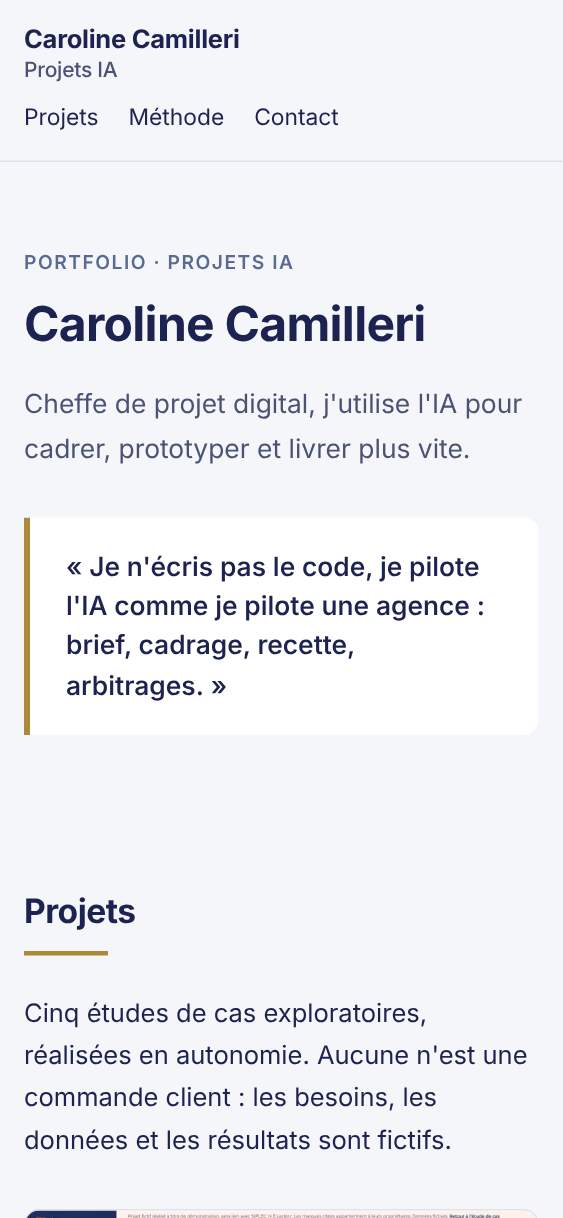
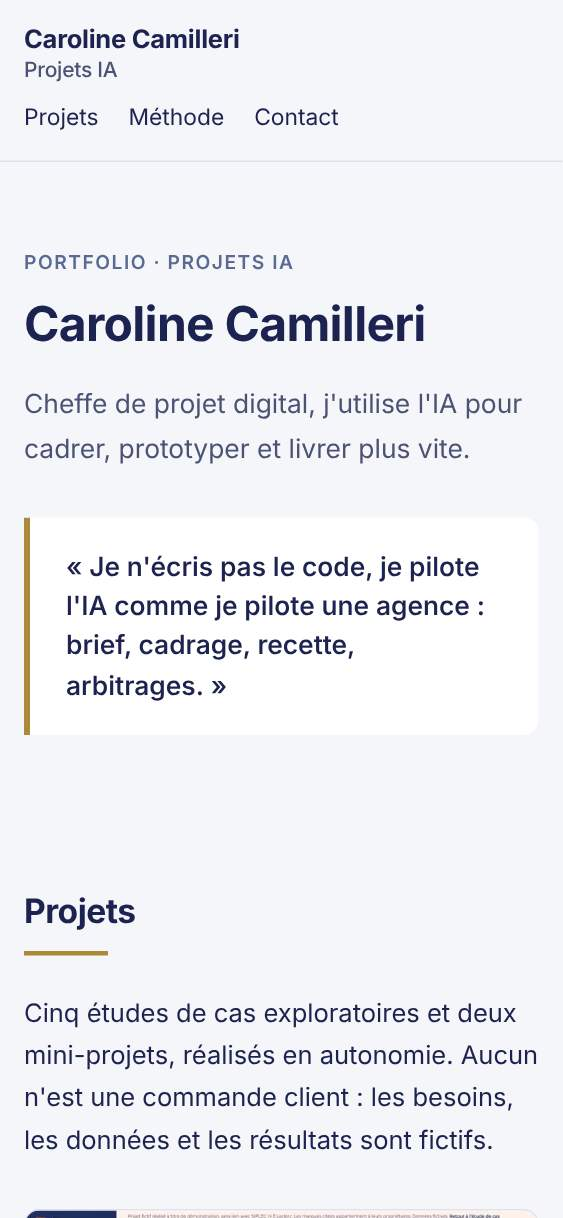
Accueil : fiches des deux mini-projets, rapport de recette à jour
Cartes et fiches #cahier-des-charges et #kit-recette (problème,
contexte, actions, outils, méthode IA, capture, démo). Accroche de la
grille et image de partage passées à sept projets. Rapport du kit
relancé sur l'état actuel des démos. README et questions mis à jour.

Claude-Session: https://claude.ai/code/session_016JEPmqZz9GtzkVWJPjUqnz

Changed region(s): [[0.0302, 0.8112, 0.9663, 0.9672]]

diff --git a/projets/kit-recette/index.html b/projets/kit-recette/index.html
@@ -30,22 +30,25 @@ figure{margin:0}img{max-width:100%;height:auto;border:1px solid var(--l);border-
   <h1>Rapport de recette du 11 novembre 2026</h1>
   <p class="meta">8 pages contrôlées sur ordinateur (1280 px), mobile (375 px) et écran étroit (320 px).</p>
   <ul class="chiffres" aria-label="Résumé">
-    <li><strong>6</strong> problème(s)</li><li><strong>0</strong> bloquant(s)</li><li><strong>6</strong> majeur(s)</li><li><strong>0</strong> mineur(s)</li>
+    <li><strong>7</strong> problème(s)</li><li><strong>0</strong> bloquant(s)</li><li><strong>7</strong> majeur(s)</li><li><strong>0</strong> mineur(s)</li>
   </ul>
   <p><a href="tickets.csv" download>Télécharger les tickets (CSV)</a> · <a href="resultats.json">Résultats bruts (JSON)</a></p>
   <p class="note">Les contrôles automatiques repèrent une partie des problèmes seulement : ils ne remplacent ni un audit RGAA complet, ni un test avec un lecteur d'écran, ni la relecture des contenus.</p>
   <h2>Synthèse</h2>
-  <div class="tw" role="region" aria-label="Synthèse par page" tabindex="0"><table><thead><tr><th scope="col">Page</th><th scope="col">HTTP</th><th scope="col">Bloquant</th><th scope="col">Majeur</th><th scope="col">Mineur</th><th scope="col">Poids</th><th scope="col">Requêtes</th></tr></thead><tbody><tr><th scope="row"><a href="#01-portfolio-ia">Projets IA – Caroline Camilleri, cheffe de projet digital</a></th><td>200</td><td>0</td><td>0</td><td>0</td><td>135 Ko</td><td>11</td></tr><tr><th scope="row"><a href="#02-projets-siplec-flotte">Énergie Pro – Gestion de flotte (prototype)</a></th><td>200</td><td>0</td><td>3</td><td>0</td><td>682 Ko</td><td>8</td></tr><tr><th scope="row"><a href="#03-projets-siplec-offre-energie">Page d'offre énergie B2B et formulaire guidé – Projet de démonstration</a></th><td>200</td><td>0</td><td>0</td><td>0</td><td>84 Ko</td><td>7</td></tr><tr><th scope="row"><a href="#04-projets-amundi">Caroline Camilleri · Proposition marketing B2B épargne salariale et retraite</a></th><td>200</td><td>0</td><td>2</td><td>0</td><td>195 Ko</td><td>10</td></tr><tr><th scope="row"><a href="#05-projets-ugc">Quel film ce soir ?</a></th><td>200</td><td>0</td><td>0</td><td>0</td><td>258 Ko</td><td>10</td></tr><tr><th scope="row"><a href="#06-ugc-illimite">Souscription UGC Illimité</a></th><td>200</td><td>0</td><td>1</td><td>0</td><td>193 Ko</td><td>6</td></tr><tr><th scope="row"><a href="#07-projets-valhor">Les métiers du végétal : carrousel en cinq visuels – Projet de démonstration</a></th><td>200</td><td>0</td><td>0</td><td>0</td><td>103 Ko</td><td>8</td></tr><tr><th scope="row"><a href="#08-projets-cahier-des-charges">Du cahier des charges aux tickets de recette – Projet de démonstration</a></th><td>200</td><td>0</td><td>0</td><td>0</td><td>88 Ko</td><td>4</td></tr></tbody></table></div>
+  <div class="tw" role="region" aria-label="Synthèse par page" tabindex="0"><table><thead><tr><th scope="col">Page</th><th scope="col">HTTP</th><th scope="col">Bloquant</th><th scope="col">Majeur</th><th scope="col">Mineur</th><th scope="col">Poids</th><th scope="col">Requêtes</th></tr></thead><tbody><tr><th scope="row"><a href="#01-portfolio-ia">Projets IA – Caroline Camilleri, cheffe de projet digital</a></th><td>200</td><td>0</td><td>1</td><td>0</td><td>151 Ko</td><td>12</td></tr><tr><th scope="row"><a href="#02-projets-siplec-flotte">Énergie Pro – Gestion de flotte (prototype)</a></th><td>200</td><td>0</td><td>3</td><td>0</td><td>682 Ko</td><td>8</td></tr><tr><th scope="row"><a href="#03-projets-siplec-offre-energie">Page d'offre énergie B2B et formulaire guidé – Projet de démonstration</a></th><td>200</td><td>0</td><td>0</td><td>0</td><td>80 Ko</td><td>7</td></tr><tr><th scope="row"><a href="#04-projets-amundi">Caroline Camilleri · Proposition marketing B2B épargne salariale et retraite</a></th><td>200</td><td>0</td><td>2</td><td>0</td><td>195 Ko</td><td>10</td></tr><tr><th scope="row"><a href="#05-projets-ugc">Quel film ce soir ?</a></th><td>200</td><td>0</td><td>0</td><td>0</td><td>258 Ko</td><td>10</td></tr><tr><th scope="row"><a href="#06-ugc-illimite">Souscription UGC Illimité</a></th><td>200</td><td>0</td><td>1</td><td>0</td><td>193 Ko</td><td>6</td></tr><tr><th scope="row"><a href="#07-projets-valhor">Les métiers du végétal : carrousel en cinq visuels – Projet de démonstration</a></th><td>200</td><td>0</td><td>0</td><td>0</td><td>100 Ko</td><td>8</td></tr><tr><th scope="row"><a href="#08-projets-cahier-des-charges">Du cahier des charges aux tickets de recette – Projet de démonstration</a></th><td>200</td><td>0</td><td>0</td><td>0</td><td>47 Ko</td><td>4</td></tr></tbody></table></div>
   <h2>Détail par page</h2>
   
 <section class="page" id="01-portfolio-ia" aria-labelledby="t-01-portfolio-ia">
   <h3 id="t-01-portfolio-ia">Projets IA – Caroline Camilleri, cheffe de projet digital</h3>
-  <p class="url"><a href="https://ccamilleri-ux.github.io/portfolio-ia/">https://ccamilleri-ux.github.io/portfolio-ia/</a> · HTTP 200 · 135 Ko · 11 requêtes · langue « fr »</p>
+  <p class="url"><a href="https://ccamilleri-ux.github.io/portfolio-ia/">https://ccamilleri-ux.github.io/portfolio-ia/</a> · HTTP 200 · 151 Ko · 12 requêtes · langue « fr »</p>
   <div class="captures">
     <figure><img src="captures/01-portfolio-ia-ordinateur.jpg" width="1280" height="800" loading="lazy" alt="Capture sur ordinateur : Projets IA – Caroline Camilleri, cheffe de projet digital"><figcaption>Ordinateur, 1280 px</figcaption></figure>
     <figure class="mob"><img src="captures/01-portfolio-ia-mobile.jpg" width="562" height="1218" loading="lazy" alt="Capture sur mobile : Projets IA – Caroline Camilleri, cheffe de projet digital"><figcaption>Mobile, 375 px</figcaption></figure>
   </div>
-  <p class="ok">Aucun problème détecté par les contrôles automatiques.</p>
+  
+  <div class="tw" role="region" aria-label="Problèmes de Projets IA – Caroline Camilleri, cheffe de projet digital" tabindex="0"><table><thead><tr><th scope="col">Gravité</th><th scope="col">Type</th><th scope="col">Règle</th><th scope="col">Description</th><th scope="col">Élément</th></tr></thead><tbody>
+  <tr><td><span class="g g-M">Majeur</span></td><td>Lien</td><td>Lien cassé (404)</td><td>Le lien mène à une page introuvable.</td><td><code>https://ccamilleri-ux.github.io/portfolio-ia/projets/kit-recette/index.html</code></td></tr>
+  </tbody></table></div>
 </section>
 <section class="page" id="02-projets-siplec-flotte" aria-labelledby="t-02-projets-siplec-flotte">
   <h3 id="t-02-projets-siplec-flotte">Énergie Pro – Gestion de flotte (prototype)</h3>
@@ -61,7 +64,7 @@ figure{margin:0}img{max-width:100%;height:auto;border:1px solid var(--l);border-
 </section>
 <section class="page" id="03-projets-siplec-offre-energie" aria-labelledby="t-03-projets-siplec-offre-energie">
   <h3 id="t-03-projets-siplec-offre-energie">Page d'offre énergie B2B et formulaire guidé – Projet de démonstration</h3>
-  <p class="url"><a href="https://ccamilleri-ux.github.io/portfolio-ia/projets/siplec-offre-energie/index.html">https://ccamilleri-ux.github.io/portfolio-ia/projets/siplec-offre-energie/index.html</a> · HTTP 200 · 84 Ko · 7 requêtes · langue « fr »</p>
+  <p class="url"><a href="https://ccamilleri-ux.github.io/portfolio-ia/projets/siplec-offre-energie/index.html">https://ccamilleri-ux.github.io/portfolio-ia/projets/siplec-offre-energie/index.html</a> · HTTP 200 · 80 Ko · 7 requêtes · langue « fr »</p>
   <div class="captures">
     <figure><img src="captures/03-projets-siplec-offre-energie-ordinateur.jpg" width="1280" height="800" loading="lazy" alt="Capture sur ordinateur : Page d'offre énergie B2B et formulaire guidé – Projet de démonstration"><figcaption>Ordinateur, 1280 px</figcaption></figure>
     <figure class="mob"><img src="captures/03-projets-siplec-offre-energie-mobile.jpg" width="562" height="1218" loading="lazy" alt="Capture sur mobile : Page d'offre énergie B2B et formulaire guidé – Projet de démonstration"><figcaption>Mobile, 375 px</figcaption></figure>
@@ -103,7 +106,7 @@ figure{margin:0}img{max-width:100%;height:auto;border:1px solid var(--l);border-
 </section>
 <section class="page" id="07-projets-valhor" aria-labelledby="t-07-projets-valhor">
   <h3 id="t-07-projets-valhor">Les métiers du végétal : carrousel en cinq visuels – Projet de démonstration</h3>
-  <p class="url"><a href="https://ccamilleri-ux.github.io/portfolio-ia/projets/valhor/index.html">https://ccamilleri-ux.github.io/portfolio-ia/projets/valhor/index.html</a> · HTTP 200 · 103 Ko · 8 requêtes · langue « fr »</p>
+  <p class="url"><a href="https://ccamilleri-ux.github.io/portfolio-ia/projets/valhor/index.html">https://ccamilleri-ux.github.io/portfolio-ia/projets/valhor/index.html</a> · HTTP 200 · 100 Ko · 8 requêtes · langue « fr »</p>
   <div class="captures">
     <figure><img src="captures/07-projets-valhor-ordinateur.jpg" width="1280" height="800" loading="lazy" alt="Capture sur ordinateur : Les métiers du végétal : carrousel en cinq visuels – Projet de démonstration"><figcaption>Ordinateur, 1280 px</figcaption></figure>
     <figure class="mob"><img src="captures/07-projets-valhor-mobile.jpg" width="562" height="1218" loading="lazy" alt="Capture sur mobile : Les métiers du végétal : carrousel en cinq visuels – Projet de démonstration"><figcaption>Mobile, 375 px</figcaption></figure>
@@ -112,7 +115,7 @@ figure{margin:0}img{max-width:100%;height:auto;border:1px solid var(--l);border-
 </section>
 <section class="page" id="08-projets-cahier-des-charges" aria-labelledby="t-08-projets-cahier-des-charges">
   <h3 id="t-08-projets-cahier-des-charges">Du cahier des charges aux tickets de recette – Projet de démonstration</h3>
-  <p class="url"><a href="https://ccamilleri-ux.github.io/portfolio-ia/projets/cahier-des-charges/index.html">https://ccamilleri-ux.github.io/portfolio-ia/projets/cahier-des-charges/index.html</a> · HTTP 200 · 88 Ko · 4 requêtes · langue « fr »</p>
+  <p class="url"><a href="https://ccamilleri-ux.github.io/portfolio-ia/projets/cahier-des-charges/index.html">https://ccamilleri-ux.github.io/portfolio-ia/projets/cahier-des-charges/index.html</a> · HTTP 200 · 47 Ko · 4 requêtes · langue « fr »</p>
   <div class="captures">
     <figure><img src="captures/08-projets-cahier-des-charges-ordinateur.jpg" width="1280" height="800" loading="lazy" alt="Capture sur ordinateur : Du cahier des charges aux tickets de recette – Projet de démonstration"><figcaption>Ordinateur, 1280 px</figcaption></figure>
     <figure class="mob"><img src="captures/08-projets-cahier-des-charges-mobile.jpg" width="562" height="1218" loading="lazy" alt="Capture sur mobile : Du cahier des charges aux tickets de recette – Projet de démonstration"><figcaption>Mobile, 375 px</figcaption></figure>

diff --git a/index.html b/index.html
@@ -4,14 +4,14 @@
 <meta charset="utf-8">
 <meta name="viewport" content="width=device-width, initial-scale=1">
 <title>Projets IA – Caroline Camilleri, cheffe de projet digital</title>
-<meta name="description" content="Cinq études de cas exploratoires : cadrer, prototyper et livrer des projets digitaux avec Claude, Claude Code, Lovable et Gamma.">
+<meta name="description" content="Sept projets réalisés en autonomie : cadrer, prototyper, rédiger les livrables et automatiser la recette avec Claude, Claude Code, Lovable et Gamma.">
 <meta name="author" content="Caroline Camilleri">
 <link rel="canonical" href="https://ccamilleri-ux.github.io/portfolio-ia/">
 <meta property="og:type" content="website">
 <meta property="og:locale" content="fr_FR">
 <meta property="og:site_name" content="Caroline Camilleri – Projets IA">
 <meta property="og:title" content="Projets IA – Caroline Camilleri, cheffe de projet digital">
-<meta property="og:description" content="Cheffe de projet digital, j'utilise l'IA pour cadrer, prototyper et livrer plus vite. Cinq études de cas exploratoires.">
+<meta property="og:description" content="Cheffe de projet digital, j'utilise l'IA pour cadrer, prototyper et livrer plus vite. Sept projets réalisés en autonomie.">
 <meta property="og:url" content="https://ccamilleri-ux.github.io/portfolio-ia/">
 <meta property="og:image" content="https://ccamilleri-ux.github.io/portfolio-ia/assets/img/og-image.png">
 <meta property="og:image:width" content="1200">
@@ -54,7 +54,7 @@
     <div class="wrap">
       <h2 id="titre-projets">Projets</h2>
       <hr class="rule">
-      <p class="narrow">Cinq études de cas exploratoires, réalisées en autonomie. Aucune n'est une commande client : les besoins, les données et les résultats sont fictifs.</p>
+      <p class="narrow">Cinq études de cas exploratoires et deux mini-projets, réalisés en autonomie. Aucun n'est une commande client : les besoins, les données et les résultats sont fictifs.</p>
       <ul class="cards cards--five">
         <li class="card">
           <img src="assets/img/captures/flotte-desktop-carte.webp" width="720" height="450" loading="lazy" alt="Tableau de bord de gestion de flotte avec une alerte « Consommation inhabituelle » en tête.">
@@ -113,6 +113,30 @@
             <div class="card__actions">
               <a class="button" href="https://adoma-design-flow.lovable.app/diffusion">Voir la démo<span class="visually-hidden"> : portail éditorial (site externe)</span></a>
               <a class="button button--ghost" href="#adoma">Lire la fiche<span class="visually-hidden"> : résidences sociales</span></a>
+            </div>
+          </div>
+        </li>
+        <li class="card">
+          <img src="assets/img/captures/cdc-carte.webp" width="720" height="450" loading="lazy" alt="Cahier de recette : tableau de tickets avec scénario, étapes, résultat attendu et statut.">
+          <div class="card__body">
+            <h3><a href="#cahier-des-charges">Du cahier des charges aux tickets de recette</a></h3>
+            <ul class="tags" aria-label="Outils"><li>Claude Code</li></ul>
+            <p class="card__demo">Analyse, user stories, recette et compte-rendu, avec contrôle de couverture.</p>
+            <div class="card__actions">
+              <a class="button" href="projets/cahier-des-charges/index.html">Voir la démo<span class="visually-hidden"> : cahier des charges</span></a>
+              <a class="button button--ghost" href="#cahier-des-charges">Lire la fiche<span class="visually-hidden"> : cahier des charges</span></a>
+            </div>
+          </div>
+        </li>
+        <li class="card">
+          <img src="assets/img/captures/kit-carte.webp" width="720" height="450" loading="lazy" alt="Rapport de recette automatisée : synthèse des problèmes par page et par gravité.">
+          <div class="card__body">
+            <h3><a href="#kit-recette">Kit de recette automatisée</a></h3>
+            <ul class="tags" aria-label="Outils"><li>Claude Code</li><li>Playwright</li><li>axe-core</li></ul>
+            <p class="card__demo">Une commande pour contrôler une liste de pages et sortir les tickets.</p>
+            <div class="card__actions">
+              <a class="button" href="projets/kit-recette/index.html">Voir la démo<span class="visually-hidden"> : rapport de recette</span></a>
+              <a class="button button--ghost" href="#kit-recette">Lire la fiche<span class="visually-hidden"> : kit de recette</span></a>
             </div>
           </div>
         </li>
@@ -318,6 +342,79 @@
         </div>
         <ul class="links">
           <li><a class="button" href="https://adoma-design-flow.lovable.app/diffusion">Voir la démo<span class="visually-hidden"> (site externe)</span></a></li>
+        </ul>
+      </article>
+      <article class="fiche" id="cahier-des-charges" aria-labelledby="t-cdc">
+        <p class="eyebrow">Projet 6 · Livrables de chef de projet</p>
+        <h3 id="t-cdc">Du cahier des charges aux tickets de recette</h3>
+        <p class="fiche__pb">Transformer un cahier des charges imprécis en livrables utilisables par l'équipe et par le client, sans rien inventer.</p>
+        <div class="fiche__grid">
+          <div>
+            <p class="fiche__ctx"><strong>Contexte</strong> : mini-projet de démonstration. Le cahier des charges, le client et la réunion sont fictifs.</p>
+            <h4>Ce que j'ai fait</h4>
+            <ul>
+              <li>Fait produire par Claude, à partir d'une page de cahier des charges : 13 exigences, 8 questions au client, les risques, 9 user stories et 16 tickets de recette.</li>
+              <li>Fait transformer des notes brutes de réunion en compte-rendu, puis reporté les décisions dans les user stories et la recette.</li>
+              <li>Fait contrôler la couverture : chaque exigence reliée à une user story, chaque user story à un ticket.</li>
+              <li>Exporté user stories et tickets en CSV, prêts à importer dans un outil de suivi.</li>
+            </ul>
+            <h4>Outils</h4>
+            <ul class="tags"><li>Claude Code</li></ul>
+            <h4>Ma méthode IA</h4>
+            <dl class="method">
+              <dt>Contexte donné</dt>
+              <dd>Deux consignes réutilisables, affichées sur la page, avec une règle : une information absente devient une question au client, jamais une invention.</dd>
+              <dt>Vérifications et corrections</dt>
+              <dd>La matrice de traçabilité est recalculée automatiquement. Elle signale 3 exigences sans user story (contrainte technique, échéance, formation), à suivre dans le planning. <span class="todo">[À COMPLÉTER : mes corrections après relecture]</span></dd>
+            </dl>
+          </div>
+          <div class="fiche__shots">
+            <figure>
+              <img src="assets/img/captures/cdc-desktop.webp" width="1280" height="800" loading="lazy" alt="Cahier de recette : tickets REC-01 à REC-05 avec étapes, résultat attendu et statut « À tester ».">
+              <figcaption>Le cahier de recette.</figcaption>
+            </figure>
+          </div>
+        </div>
+        <ul class="links">
+          <li><a class="button" href="projets/cahier-des-charges/index.html">Voir la démo</a></li>
+          <li><a class="link-more" href="projets/cahier-des-charges/cahier-de-recette.csv" download>Télécharger le cahier de recette (CSV)</a></li>
+        </ul>
+      </article>
+
+      <article class="fiche" id="kit-recette" aria-labelledby="t-kit">
+        <p class="eyebrow">Projet 7 · Automatisation</p>
+        <h3 id="t-kit">Kit de recette automatisée</h3>
+        <p class="fiche__pb">À chaque livraison, on refait les mêmes contrôles à la main : captures, rendu mobile, accessibilité, liens.</p>
+        <div class="fiche__grid">
+          <div>
+            <p class="fiche__ctx"><strong>Contexte</strong> : mini-projet de démonstration, testé sur les démos de ce portfolio.</p>
+            <h4>Ce que j'ai fait</h4>
+            <ul>
+              <li>Fait construire un script qui contrôle une liste de pages en une seule commande.</li>
+              <li>Obtenu un rapport lisible et un fichier de tickets à importer dans Jira, Trello ou un tableur.</li>
+              <li>Fait écrire un mode d'emploi pas à pas, pour qu'une équipe le relance sans aide.</li>
+              <li>Lancé le kit sur les 8 démos du portfolio : 6 problèmes majeurs trouvés sur 3 démos.</li>
+            </ul>
+            <h4>Outils</h4>
+            <ul class="tags"><li>Claude Code</li><li>Playwright</li><li>axe-core</li></ul>
+            <h4>Ma méthode IA</h4>
+            <dl class="method">
+              <dt>Contexte donné</dt>
+              <dd>La liste des contrôles refaits à chaque livraison, les formats de sortie attendus (rapport, tickets) et le public : une équipe qui ne code pas.</dd>
+              <dt>Vérifications et corrections</dt>
+              <dd>Le rapport rappelle ce que l'automatique ne voit pas : audit RGAA complet, test avec un lecteur d'écran, relecture des contenus.</dd>
+            </dl>
+          </div>
+          <div class="fiche__shots">
+            <figure>
+              <img src="assets/img/captures/kit-detail.webp" width="1280" height="800" loading="lazy" alt="Détail du rapport pour une page : captures ordinateur et mobile, puis tableau des problèmes avec gravité, règle et élément concerné.">
+              <figcaption>Détail du rapport pour une page.</figcaption>
+            </figure>
+          </div>
+        </div>
+        <ul class="links">
+          <li><a class="button" href="projets/kit-recette/index.html">Voir la démo</a></li>
+          <li><a class="link-more" href="https://github.com/CCAMILLERI-ux/portfolio-ia/tree/main/outils/kit-recette">Code et mode d'emploi</a></li>
         </ul>
       </article>
     </div>

diff --git a/README.md b/README.md
@@ -6,11 +6,12 @@ En ligne : https://ccamilleri-ux.github.io/portfolio-ia/
 
 ## Contenu
 
-- `index.html` : accroche, grille de cinq projets, une fiche courte par projet (ancres `#siplec`, `#amundi`, `#ugc`, `#valhor`, `#adoma`), méthode en quatre étapes, contact
+- `index.html` : accroche, grille de cinq projets, une fiche courte par projet (ancres `#siplec`, `#amundi`, `#ugc`, `#valhor`, `#adoma`, `#cahier-des-charges`, `#kit-recette`), méthode en quatre étapes, contact
 - `cas-siplec.html`, `cas-amundi.html`, `cas-ugc.html` : études détaillées
 - `projets/` : démos de démonstration, modifiables indépendamment des dépôts d'origine
-  - `siplec-flotte/` (build de `sources/siplec-flotte/` : `npm install` puis `npm run build` dans ce dossier), `siplec-offre-energie/`, `amundi/`, `ugc/`, `valhor/`
+  - `siplec-flotte/` (build de `sources/siplec-flotte/` : `npm install` puis `npm run build` dans ce dossier), `siplec-offre-energie/`, `amundi/`, `ugc/`, `valhor/`, `cahier-des-charges/`, `kit-recette/`
   - le projet Adoma est hébergé sur Lovable (lien externe)
+- `outils/kit-recette/` : kit de recette automatisée (script, mode d'emploi) ; son rapport sur les démos est publié dans `projets/kit-recette/`
 - `assets/` : feuille de style, police Inter (WOFF2, licence OFL), captures WebP, image de partage, favicon
 - `A-COMPLETER.md` : questions en attente
 

diff --git a/A-COMPLETER.md b/A-COMPLETER.md
@@ -1,7 +1,9 @@
 # Questions pour Caroline
 
-Toutes les questions précédentes ont reçu une réponse et sont intégrées au site.
+## À compléter sur le site
+- [ ] Cahier des charges (`index.html#cahier-des-charges` et `projets/cahier-des-charges/`, section « Ma relecture ») : relire la production de Claude et noter deux ou trois corrections concrètes.
 
-## Restant à décider
+## À décider
 - [ ] Pages détaillées (`cas-siplec.html`, `cas-amundi.html`, `cas-ugc.html`) : gardées en lien secondaire « Étude détaillée ». Les durées et vérifications non renseignées en ont été retirées.
-- [ ] L'application Lovable Adoma affiche les logos CDC Habitat / Adoma / Caisse des Dépôts. Dans le portfolio, ils sont floutés ou recadrés sur les captures, mais restent visibles sur l'application en ligne.
+- [ ] L'application Lovable Adoma affiche les logos CDC Habitat / Adoma / Caisse des Dépôts. Sur les captures du portfolio, ils sont recadrés ou floutés, mais restent visibles sur l'application en ligne.
+- [ ] Le kit de recette a trouvé 6 problèmes majeurs sur 3 démos (gestion de flotte, Amundi, abonnement UGC) : les corriger, puis relancer le kit pour montrer la boucle complète ?
